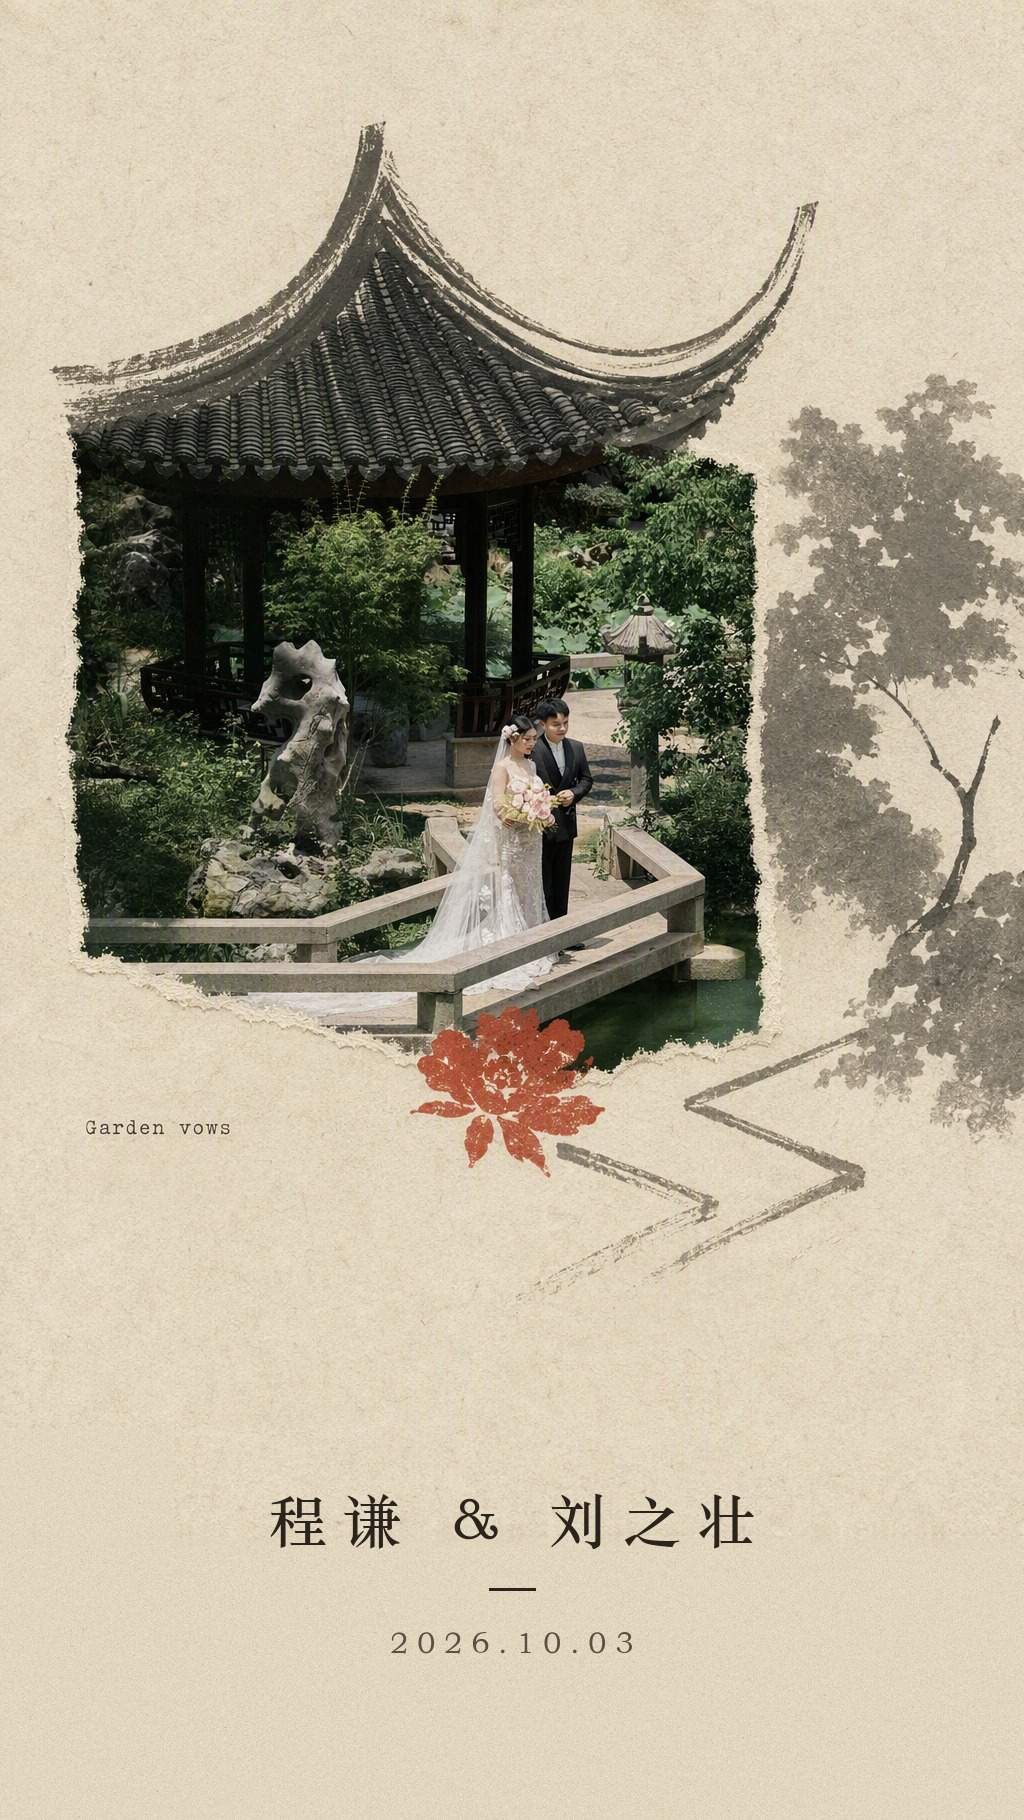
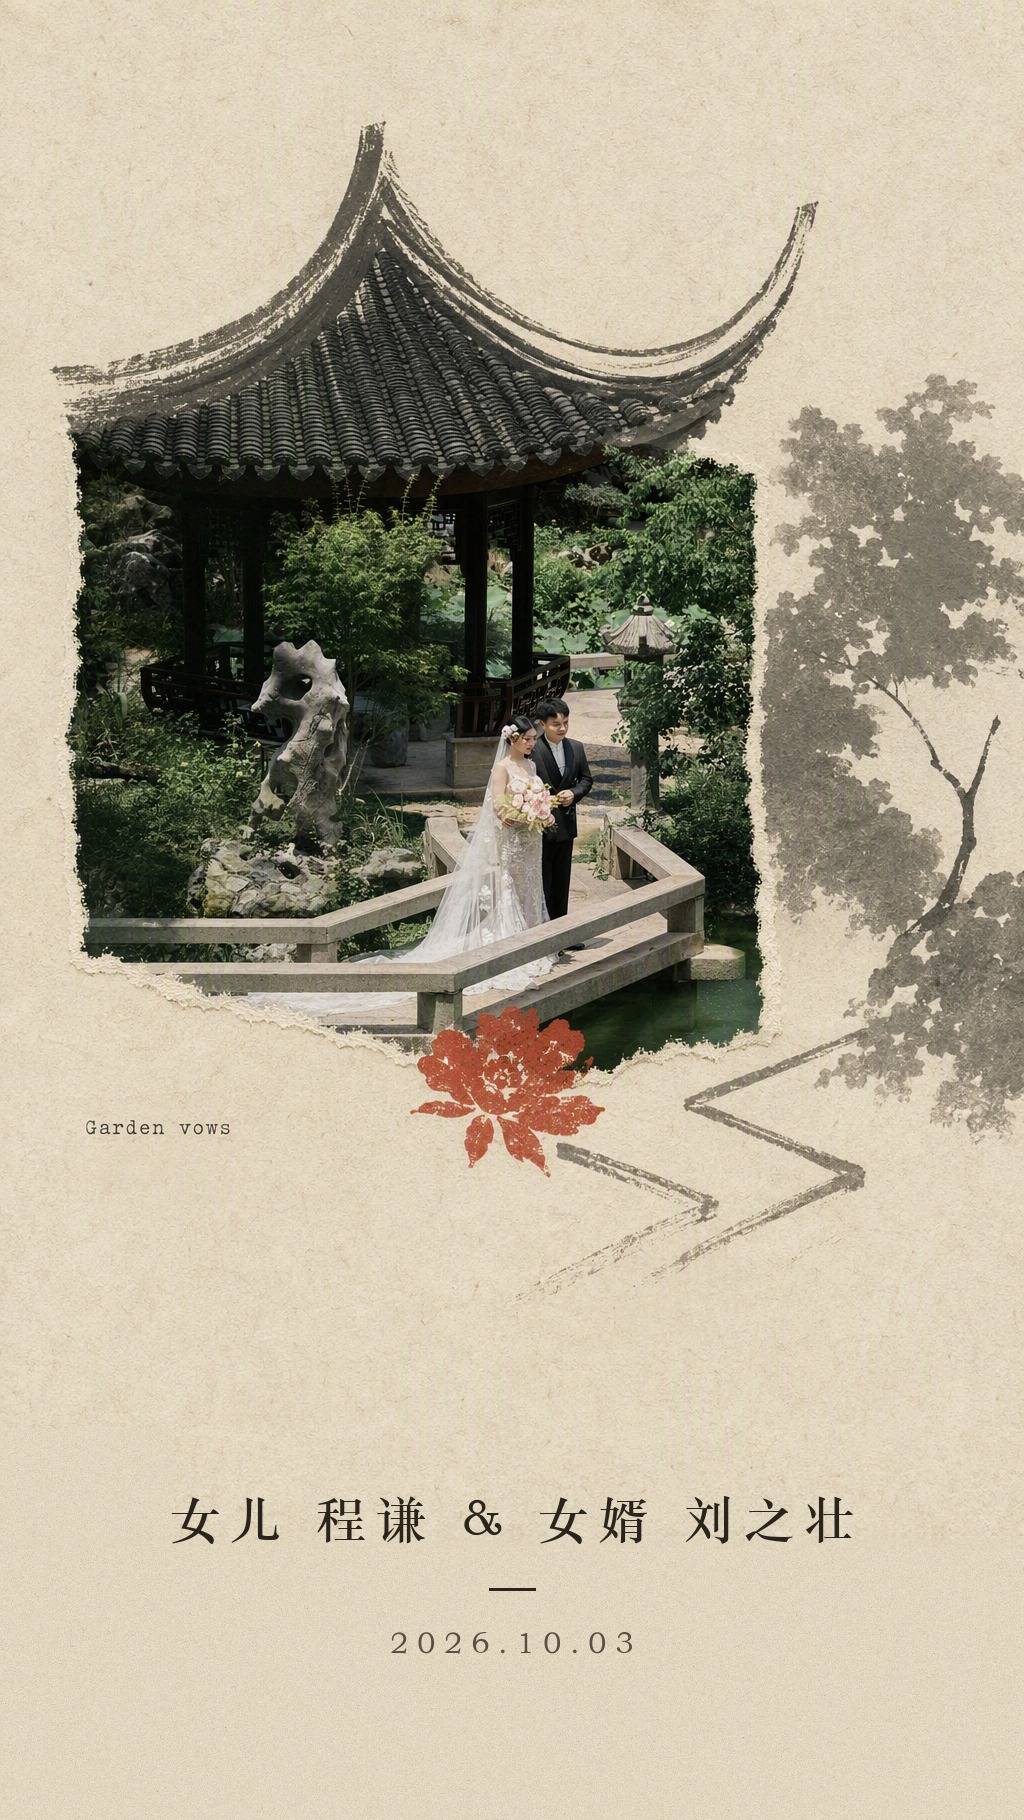
Rename to 回门宴; cover: 女儿程谦 & 女婿刘之壮; venue: 南山厅（电梯5B直达）

diff --git a/index.html b/index.html
@@ -3,10 +3,10 @@
 <head>
 <meta charset="UTF-8">
 <meta name="viewport" content="width=device-width, initial-scale=1.0, maximum-scale=1.0, user-scalable=no, viewport-fit=cover">
-<title>程谦&刘之壮的婚礼邀请</title>
-<meta property="og:title" content="程谦&刘之壮的婚礼邀请">
+<title>程谦&刘之壮的回门宴邀请</title>
+<meta property="og:title" content="程谦&刘之壮的回门宴邀请">
 <meta property="og:description" content="2026.10.03 · 愿有岁月可回首，且以深情共白头">
-<meta property="og:image" content="https://cdn.jsdelivr.net/gh/lzz66/wedding-invitation2@main/cover.jpg">
+<meta property="og:image" content="https://cdn.jsdelivr.net/gh/lzz66/wedding-invitation2@main/cover.jpg?v=11">
 <meta property="og:image:width" content="768">
 <meta property="og:image:height" content="1280">
 <meta property="og:type" content="website">
@@ -16,7 +16,7 @@
 <link rel="preconnect" href="https://fonts.loli.net" crossorigin>
 <link rel="dns-prefetch" href="https://cdn.jsdelivr.net">
 <link rel="preconnect" href="https://cdn.jsdelivr.net" crossorigin>
-<link rel="preload" as="image" href="https://cdn.jsdelivr.net/gh/lzz66/wedding-invitation2@main/artistic_photos/art_cover.jpg?v=10">
+<link rel="preload" as="image" href="https://cdn.jsdelivr.net/gh/lzz66/wedding-invitation2@main/artistic_photos/art_cover.jpg?v=11">
 <link href="https://fonts.loli.net/css2?family=Noto+Serif+SC:wght@300;400;600&family=Crimson+Text:ital,wght@0,400;0,600;1,400&display=swap" rel="stylesheet">
 <style>
 /* ===== ZINE CANVAS SYSTEM ===== */
@@ -609,7 +609,7 @@ body.intro-lock { overflow: hidden; height: 100vh; }
       <div class="env-body"></div>
       <div class="env-letter">
         <div class="env-letter-names">程谦 &amp; 刘之壮</div>
-        <div class="env-letter-sub">婚礼请柬</div>
+        <div class="env-letter-sub">回门宴请柬</div>
         <div class="env-letter-date">2026.10.03</div>
       </div>
       <div class="env-pocket"></div>
@@ -622,7 +622,7 @@ body.intro-lock { overflow: hidden; height: 100vh; }
 <!-- ===== PAGE 1: COVER (full-screen poster with names & date baked in) ===== -->
 <section class="page cover-page">
   <div class="cover-photo torn-container reveal">
-    <img src="https://cdn.jsdelivr.net/gh/lzz66/wedding-invitation2@main/artistic_photos/art_cover.jpg?v=10" class="torn-img" fetchpriority="high" decoding="async" alt="程谦与刘之壮的婚礼邀请封面">
+    <img src="https://cdn.jsdelivr.net/gh/lzz66/wedding-invitation2@main/artistic_photos/art_cover.jpg?v=11" class="torn-img" fetchpriority="high" decoding="async" alt="程谦与刘之壮的回门宴邀请封面">
   </div>
 </section>
 
@@ -660,7 +660,7 @@ body.intro-lock { overflow: hidden; height: 100vh; }
       <figcaption class="pair-cap">执手同行</figcaption>
     </figure>
     <div class="gap-lg"></div>
-    <div class="type-caption">Wedding Invitation</div>
+    <div class="type-caption">Homecoming Banquet</div>
   </div>
 </section>
 
@@ -727,8 +727,8 @@ body.intro-lock { overflow: hidden; height: 100vh; }
 <!-- ===== PAGE 9: INFO ===== -->
 <section class="page">
   <div class="reveal" style="width:100%;max-width:340px;">
-    <div class="type-caption" style="text-align:center;margin-bottom:8px;">Wedding</div>
-    <div class="type-title" style="text-align:center;margin-bottom:48px;">婚礼信息</div>
+    <div class="type-caption" style="text-align:center;margin-bottom:8px;">Homecoming</div>
+    <div class="type-title" style="text-align:center;margin-bottom:48px;">回门宴信息</div>
     <div class="info-grid">
       <div class="info-row">
         <h3>时间</h3>
@@ -738,7 +738,7 @@ body.intro-lock { overflow: hidden; height: 100vh; }
       <div class="info-row">
         <h3>地点</h3>
         <div class="value">十里幸福茂艺术中心</div>
-        <div class="sub">南山厅 · 江西九江</div>
+        <div class="sub">南山厅（电梯5B直达） · 江西九江</div>
         <a href="https://uri.amap.com/search?keyword=%E4%B9%9D%E6%B1%9F%E5%B9%B8%E7%A6%8F%E8%8C%82%E8%89%BA%E6%9C%AF%E4%B8%AD%E5%BF%83&city=%E4%B9%9D%E6%B1%9F&src=wedding-invite&callnative=1" class="btn-map">
           <svg width="12" height="12" viewBox="0 0 24 24" fill="none" stroke="currentColor" stroke-width="2.5" stroke-linecap="round"><path d="M21 10c0 7-9 13-9 13s-9-6-9-13a9 9 0 0 1 18 0z"/><circle cx="12" cy="10" r="3"/></svg>
           导航
@@ -938,7 +938,7 @@ function updateCountdown() {
 setInterval(updateCountdown, 1000);
 updateCountdown();
 
-document.title = '程谦&刘之壮的婚礼邀请';
+document.title = '程谦&刘之壮的回门宴邀请';
 </script>
 
 </body>
